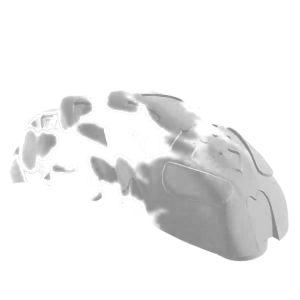
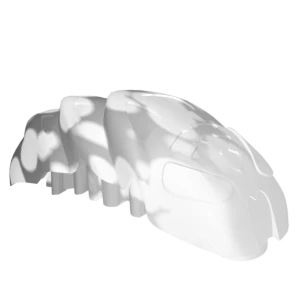
Kraata Colors

Changed region(s): [[0.03, 0.3, 0.9, 0.87], [0.9, 0.69, 0.93, 0.81]]

diff --git a/src/data/kraataColors.ts b/src/data/kraataColors.ts
@@ -1,0 +1,189 @@
+/**
+ * Kraata head and tail colors from BIONICLE lore (BIONICLEsector01 wiki).
+ * Pattern: "Kraata of X are Color1/Color2, while" → head = Color1, tail = Color2.
+ * CompositedImage uses [tail, tail, head] for [Base, Tail, Head] layers.
+ */
+
+import { GameItemId } from './loot';
+
+/** LEGO color names (as on wiki) to hex. Uses existing LEGO palette and close equivalents. */
+const LEGO_COLOR_HEX: Record<string, string> = {
+  Black: '#05131D',
+  White: '#FFFFFF',
+  Blue: '#0055BF',
+  'Bright Blue': '#0055BF',
+  'Medium Blue': '#5A93DB',
+  Red: '#C91A09',
+  'Bright Red': '#C91A09',
+  Green: '#237841',
+  'Dark Green': '#1B5E20',
+  Yellow: '#F2CD37',
+  'Bright Yellow': '#F2CD37',
+  Orange: '#FE8A18',
+  'Bright Orange': '#FE8A18',
+  'Bright Yellowish Green': '#BBE90B',
+  Lime: '#BBE90B',
+  Purple: '#81007B',
+  Brown: '#583927',
+  Tan: '#E4CD9E',
+  'Brick Yellow': '#D7C599',
+  'Sand Blue': '#6074A1',
+  'Sand Blue Metallic': '#6074A1',
+  'Sand Yellow Metallic': '#C2A375',
+  'Light Grey Metallic': '#9BA19D',
+  'Light Gray Metallic': '#9BA19D',
+  'Dark Grey Metallic': '#6D6E5C',
+  'Dark Gray Metallic': '#6D6E5C',
+  Grey: '#6D6E5C',
+  Gray: '#6D6E5C',
+  'Reddish Gold': '#AA7F2E',
+  'Lemon Metallic': '#D4AF37',
+  'Pearl Gold': '#AA7F2E',
+};
+
+function hex(name: string): string {
+  const value = LEGO_COLOR_HEX[name];
+  if (!value) throw new Error(`Unknown kraata LEGO color: ${name}`);
+  return value;
+}
+
+export interface KraataColors {
+  /** Head color (first color in "Color1/Color2"). */
+  head: string;
+  /** Tail color (second color in "Color1/Color2"). */
+  tail: string;
+}
+
+/**
+ * Colors for CompositedImage: [Base, Tail, Head] → first two layers use tail, third uses head.
+ * So pass [tail, tail, head].
+ */
+export function getKraataCompositedColors(id: GameItemId): [string, string, string] {
+  const c = KRAATA_SPECIES_COLORS[id];
+  if (!c) return [hex('Sand Yellow Metallic'), hex('Sand Yellow Metallic'), hex('Lemon Metallic')];
+  return [c.head, c.head, c.tail];
+}
+
+/** Kraata species → head/tail colors (wiki: first = head, second = tail). */
+export const KRAATA_SPECIES_COLORS: Partial<Record<GameItemId, KraataColors>> = {
+  [GameItemId.KraataAccuracy]: { head: hex('Bright Red'), tail: hex('Bright Blue') },
+  [GameItemId.KraataAdaptation]: { head: hex('Bright Yellow'), tail: hex('Reddish Gold') },
+  [GameItemId.KraataAnger]: { head: hex('Light Grey Metallic'), tail: hex('White') },
+  [GameItemId.KraataChainLightning]: {
+    head: hex('Sand Blue Metallic'),
+    tail: hex('Lemon Metallic'),
+  },
+  [GameItemId.KraataChameleon]: {
+    head: hex('Sand Yellow Metallic'),
+    tail: hex('Bright Yellow'),
+  },
+  [GameItemId.KraataConfusion]: { head: hex('Black'), tail: hex('Reddish Gold') },
+  [GameItemId.KraataCyclone]: {
+    head: hex('Sand Blue Metallic'),
+    tail: hex('Light Grey Metallic'),
+  },
+  [GameItemId.KraataDarkness]: { head: hex('Reddish Gold'), tail: hex('Bright Yellow') },
+  [GameItemId.KraataDensityControl]: {
+    head: hex('Dark Green'),
+    tail: hex('Lemon Metallic'),
+  },
+  [GameItemId.KraataDisintegration]: {
+    head: hex('Sand Blue Metallic'),
+    tail: hex('Medium Blue'),
+  },
+  [GameItemId.KraataDodge]: {
+    head: hex('Bright Yellow'),
+    tail: hex('Sand Yellow Metallic'),
+  },
+  [GameItemId.KraataElasticity]: {
+    head: hex('Bright Yellowish Green'),
+    tail: hex('Bright Yellow'),
+  },
+  [GameItemId.KraataElectricity]: { head: hex('Bright Blue'), tail: hex('Bright Red') },
+  [GameItemId.KraataFear]: { head: hex('Reddish Gold'), tail: hex('Bright Red') },
+  [GameItemId.KraataFireResistance]: { head: hex('Black'), tail: hex('Bright Red') },
+  [GameItemId.KraataFragmentation]: {
+    head: hex('Sand Yellow Metallic'),
+    tail: hex('Brick Yellow'),
+  },
+  [GameItemId.KraataGravity]: {
+    head: hex('Dark Grey Metallic'),
+    tail: hex('Lemon Metallic'),
+  },
+  [GameItemId.KraataHeatVision]: { head: hex('Black'), tail: hex('Bright Orange') },
+  [GameItemId.KraataHunger]: { head: hex('Dark Grey Metallic'), tail: hex('Grey') },
+  [GameItemId.KraataIceResistance]: {
+    head: hex('Brick Yellow'),
+    tail: hex('Dark Green'),
+  },
+  [GameItemId.KraataIllusion]: { head: hex('Dark Green'), tail: hex('Brick Yellow') },
+  [GameItemId.KraataInsectControl]: { head: hex('Bright Yellow'), tail: hex('Black') },
+  [GameItemId.KraataInvulnerability]: {
+    head: hex('Black'),
+    tail: hex('Sand Yellow Metallic'),
+  },
+  [GameItemId.KraataLaserVision]: {
+    head: hex('Lemon Metallic'),
+    tail: hex('Dark Green'),
+  },
+  [GameItemId.KraataMagnetism]: { head: hex('Bright Orange'), tail: hex('Black') },
+  [GameItemId.KraataMindReading]: {
+    head: hex('Bright Red'),
+    tail: hex('Lemon Metallic'),
+  },
+  [GameItemId.KraataPlantControl]: { head: hex('Reddish Gold'), tail: hex('Black') },
+  [GameItemId.KraataPlasma]: {
+    head: hex('Dark Grey Metallic'),
+    tail: hex('Sand Blue Metallic'),
+  },
+  [GameItemId.KraataPoison]: {
+    head: hex('Lemon Metallic'),
+    tail: hex('Bright Yellowish Green'),
+  },
+  [GameItemId.KraataPowerScream]: { head: hex('Bright Red'), tail: hex('Black') },
+  [GameItemId.KraataQuickHealing]: {
+    head: hex('Lemon Metallic'),
+    tail: hex('Sand Blue Metallic'),
+  },
+  [GameItemId.KraataRahiControl]: {
+    head: hex('Sand Yellow Metallic'),
+    tail: hex('Black'),
+  },
+  [GameItemId.KraataShapeshifting]: {
+    head: hex('Dark Grey Metallic'),
+    tail: hex('Bright Yellowish Green'),
+  },
+  [GameItemId.KraataShattering]: {
+    head: hex('Sand Yellow Metallic'),
+    tail: hex('Brick Yellow'),
+  },
+  [GameItemId.KraataSilence]: {
+    head: hex('Bright Yellowish Green'),
+    tail: hex('Dark Grey Metallic'),
+  },
+  [GameItemId.KraataSleep]: {
+    head: hex('Reddish Gold'),
+    tail: hex('Sand Yellow Metallic'),
+  },
+  [GameItemId.KraataSlowness]: {
+    head: hex('Light Grey Metallic'),
+    tail: hex('Sand Blue Metallic'),
+  },
+  [GameItemId.KraataSonics]: { head: hex('Black'), tail: hex('Bright Yellow') },
+  [GameItemId.KraataStasisField]: {
+    head: hex('Sand Blue Metallic'),
+    tail: hex('Dark Grey Metallic'),
+  },
+  [GameItemId.KraataTeleportation]: {
+    head: hex('Lemon Metallic'),
+    tail: hex('Bright Red'),
+  },
+  [GameItemId.KraataVacuum]: {
+    head: hex('Bright Yellow'),
+    tail: hex('Bright Yellowish Green'),
+  },
+  [GameItemId.KraataWeatherControl]: {
+    head: hex('Lemon Metallic'),
+    tail: hex('Dark Grey Metallic'),
+  },
+};

diff --git a/src/pages/CharacterInventory/index.tsx b/src/pages/CharacterInventory/index.tsx
@@ -16,8 +16,8 @@ import { useMemo, useState, useCallback } from 'react';
 import { Tabs } from '../../components/Tabs';
 import { CHARACTER_DEX } from '../../data/dex/index';
 import { GameItemId, ITEM_DICTIONARY, isKraataItem } from '../../data/loot';
+import { getKraataCompositedColors } from '../../data/kraataColors';
 import { CompositedImage } from '../../components/CompositedImage';
-import { LegoColor } from '../../types/Colors';
 
 const CHARACTERS_TAB_KEY = 'characters-tab';
 
@@ -121,10 +121,10 @@ export const CharacterInventory: React.FC = () => {
               <CompositedImage
                 images={[
                   `${import.meta.env.BASE_URL}/avatar/Kraata/${stage}_Base.webp`,
-                  `${import.meta.env.BASE_URL}/avatar/Kraata/${stage}_Tail.webp`,
                   `${import.meta.env.BASE_URL}/avatar/Kraata/${stage}_Head.webp`,
+                  `${import.meta.env.BASE_URL}/avatar/Kraata/${stage}_Tail.webp`,
                 ]}
-                colors={[LegoColor.Green, LegoColor.Green, LegoColor.PearlGold]}
+                colors={getKraataCompositedColors(id)}
                 className="kraata-card__image"
               />
               <div className="kraata-card__name">{name}</div>

diff --git a/e2e/rahkshi/list.spec.ts b/e2e/rahkshi/list.spec.ts
@@ -8,6 +8,7 @@ const RAHKSHI_INVENTORY_GAME_STATE = {
     KraataDisintegration: 5,
     KraataChainLightning: 1,
     KraataElectricity: 1,
+    KraataAccuracy: 20,
   },
   recruitedCharacters: [
     {
